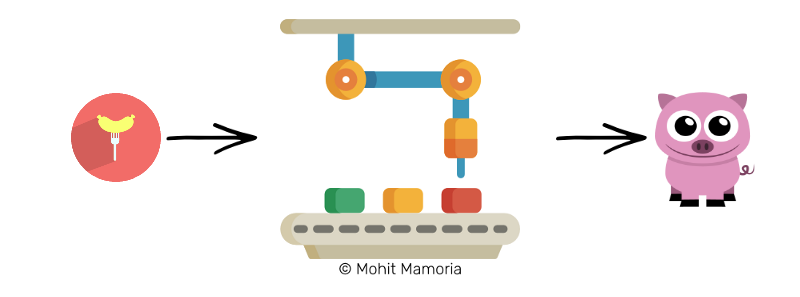
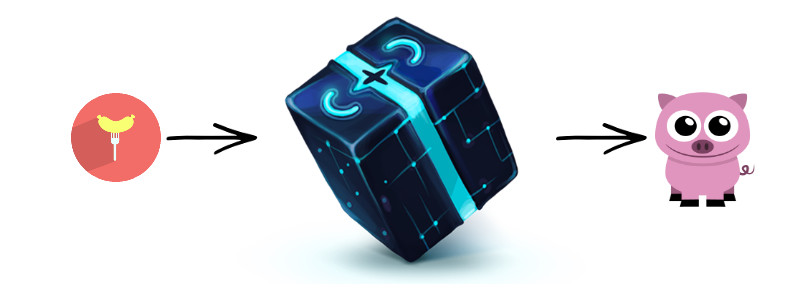
change figures 2

Changed region(s): [[0.3438, 0.0606, 0.6562, 0.9697]]

diff --git a/tim_hieu_ve_blockchain.html b/tim_hieu_ve_blockchain.html
@@ -173,31 +173,29 @@
 <blockquote>
 <p>Bạn có thể biết về 'Hash Function' hay 'hàm băm' hay 'hàm mã hóa' hoặc đại loại thế, tuy nhiên chúng ta sẽ vẫn dùng 'chiếc hộp kỳ diệu' cho dễ hiểu.</p>
 </blockquote>
-<p><img alt="Magic box" src="static/blockchain/7.png"></p>
 <p>Giả sử, chúng ta gửi vào hộp 1 cái xúc xích, con lợn sẽ chạy ra ở bên phải hộp. Làm thế nào để cái xúc xích thành con lợn, chẳng ai biết cả.</p>
 <blockquote>
 <p>Lời người viết (3): Ở bài gốc trên hackernoon dùng các chữ số đầu vào và chữ cái đầu ra, mình không thích thế lắm nên dùng các đồ vật và con vật cho dễ hiểu. P/S: Nếu vẫn thấy số trong ảnh là chưa photoshop xong. =))</p>
 </blockquote>
 <p>Thêm nữa, việc đoán cái gì được đưa vào trong hộp phải là không thể, chúng ta khi thấy con voi chạy ra thì không thể đoán cái gì đã được nhét vào hộp, nhưng cứ khi nào nhét cái xúc xích vào, sẽ vẫn là con lợn chạy ra.</p>
+<p><img alt="Magic box" src="static/blockchain/7.png"></p>
+<p>Thử nhét vào cái bút.</p>
 <p><img alt="Magic box" src="static/blockchain/8.png"></p>
-<p>Thử nhét vào cái lạp xưởng.</p>
-<p><img alt="Magic box" src="static/blockchain/9.png"></p>
-<p>Chúng ta có con heo chạy ra.</p>
+<p>Chúng ta có con voi chạy ra.</p>
 <p>Bây giờ, chúng ta có một câu hỏi như sau:</p>
 <blockquote>
 <p>Liệu có thể đoán được phải nhét cái gì vào bên trái để có 1 con vật 4 chân chạy ra từ bên phải hộp.</p>
 </blockquote>
-<p><img alt="Magic box" src="static/blockchain/10.png"></p>
 <p>Vấn đề là, chúng ta không thể đoán được khi nhét cái gì vào thì con gì sẽ chạy ra. Cách duy nhất để tìm trả lời được đó là thử tất cả mọi thứ trên đời cho đến khi có một con vật 4 chân chạy ra: chả giò, nem chua, đồng hồ, bút, thước, ba con sói ...</p>
-<p><img alt="Magic box" src="static/blockchain/11.png"></p>
+<p><img alt="Magic box" src="static/blockchain/9.png"></p>
 <p>Cứ giả sử, nếu may mắn, sau khi nhét hàng núi đồ vào, con chuột chạy ra và 1 đáp án của chúng ta là cái usb.</p>
-<p><img alt="Magic box" src="static/blockchain/12.png"></p>
+<p><img alt="Magic box" src="static/blockchain/10.png"></p>
 <p>Rất khó để tính toán đầu vào cho đầu ra, chúng ta tạm coi việc đó là không thể. Tuy nhiên, rất dễ dàng để xác minh nếu đầu vào cho đầu ra đúng yêu cầu.
 Bạn nghĩ câu trả lời là gì nếu ta ném cái usb vào? Một con vật 4 chân có chạy ra không? Xác minh rất dễ, chỉ cần ném thử cái usb vào và đếm số chân của con chuột chạy ra.</p>
 <p>Thuộc tính quan trọng của chiếc hộp kỳ diệu:</p>
 <p><em>"Cho một đầu ra, rất khó để đoán đầu vào, nhưng rất dễ để xác minh đầu vào có cho ra chính xác thứ ta mong đợi ở đầu ra không"</em></p>
 <h4>Sử dụng chiếc hộp kỳ diệu</h4>
-<p>Bây giờ quay lại vấn đề các bản ghi, các bản ghi thì là chữ và số vì vậy ta tạm rời xa các con vật vậy.</p>
+<p>Bây giờ quay lại vấn đề các bản ghi, các bản ghi thì là chữ và số vì vậy ta tạm rời xa các con vật vậy, hộp kỳ diệu thay bằng một cái máy.</p>
 <p>Hãy tưởng tượng chúng ta có hai hộp chứa bản ghi. Hộp đầu tiên chứa số 20893. Tôi hỏi bạn: "Bạn có thể tìm ra một con số khi thêm vào số trong hộp đầu tiên và cho vào chiếc hộp kỳ diệu sẽ cho chúng ta một từ bắt đầu bằng ba chữ số 0?"</p>
 <p><img alt="Magic box" src="static/blockchain/13.png"></p>
 <p>Bạn còn nhớ cách chúng ta tìm ra chiếc usb? Phải vậy, chúng ta sẽ thử lần lượt từng số cho đến khi tìm được đầu ra đúng yêu cầu. Sau vài nghìn lần thử, có thể hàng vạn hoặc hơn, chúng ta gặp một số, giả sử 21191 đi, mà khi thêm vào 20893 (21191 + 20893 = 42084) và cho vào hộp kỹ diệu thì đầu ra sẽ cho chúng ta một từ thỏa mãn.</p>
